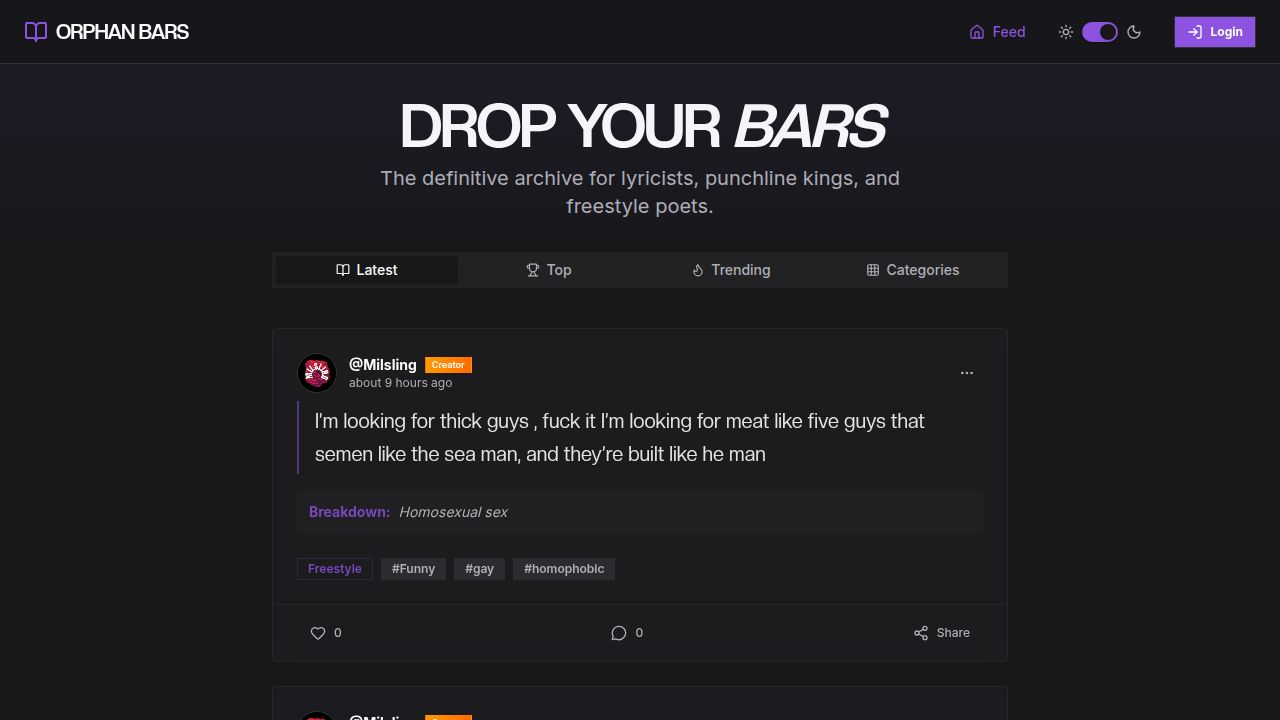
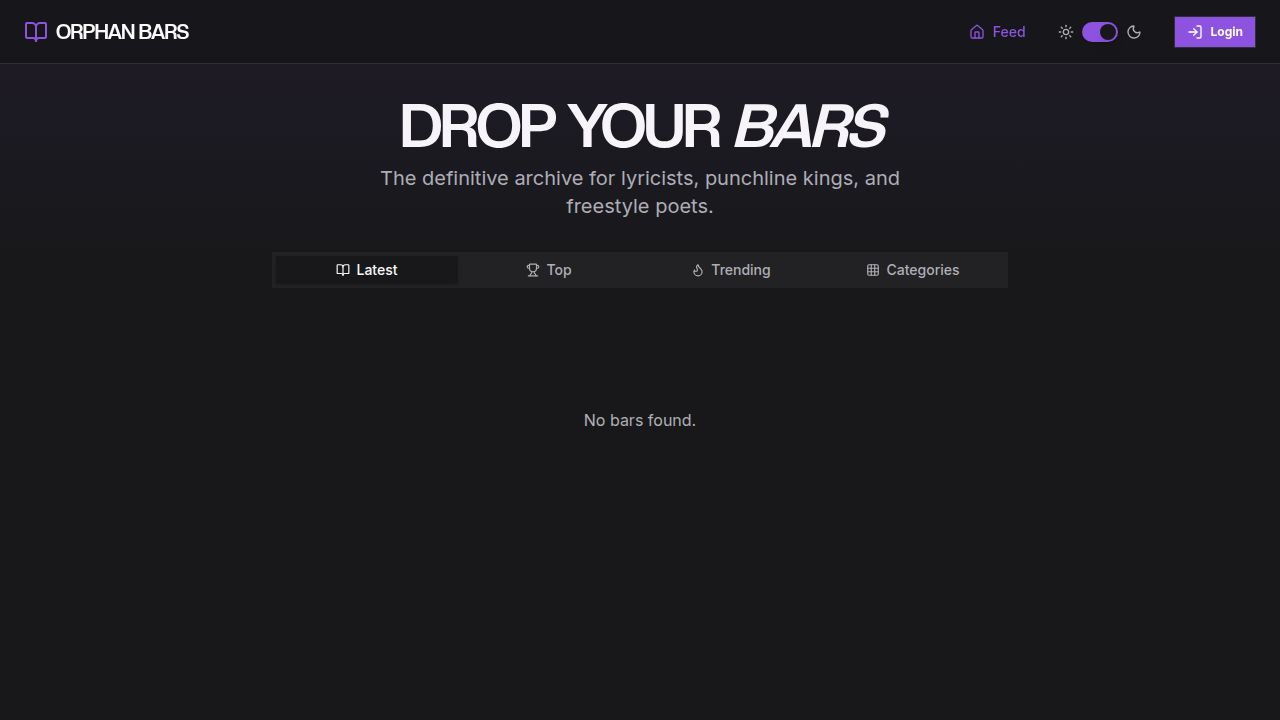
Add functionality to delete all bars from the admin panel
Adds a new API endpoint to delete all bars, integrates it into the client-side admin panel with a confirmation dialog, and updates the storage layer to handle the deletion.

Replit-Commit-Author: Agent
Replit-Commit-Session-Id: fc39a20a-0d36-48f5-8eaf-8de935e1e7b2
Replit-Commit-Checkpoint-Type: full_checkpoint
Replit-Commit-Event-Id: 9e76a912-d1a5-44b7-9e7d-4d3c05e5ec43
Replit-Commit-Screenshot-Url: https://storage.googleapis.com/screenshot-production-us-central1/ceffc5c3-e952-4163-a449-5ae4e89adb8e/fc39a20a-0d36-48f5-8eaf-8de935e1e7b2/ch1iBVl
Replit-Helium-Checkpoint-Created: true

diff --git a/client/src/pages/Admin.tsx b/client/src/pages/Admin.tsx
@@ -37,6 +37,17 @@ export default function Admin() {
     },
   });
 
+  const deleteAllBarsMutation = useMutation({
+    mutationFn: () => api.adminDeleteAllBars(),
+    onSuccess: () => {
+      queryClient.invalidateQueries({ queryKey: ['bars'] });
+      toast({ title: "All bars deleted" });
+    },
+    onError: (error: any) => {
+      toast({ title: "Error", description: error.message, variant: "destructive" });
+    },
+  });
+
   const deleteUserMutation = useMutation({
     mutationFn: (userId: string) => api.adminDeleteUser(userId),
     onSuccess: () => {
@@ -185,8 +196,35 @@ export default function Admin() {
 
           <TabsContent value="bars">
             <Card className="border-border bg-card/50">
-              <CardHeader>
+              <CardHeader className="flex flex-row items-center justify-between">
                 <CardTitle>All Bars</CardTitle>
+                {bars.length > 0 && (
+                  <AlertDialog>
+                    <AlertDialogTrigger asChild>
+                      <Button variant="destructive" size="sm" data-testid="button-delete-all-bars">
+                        <Trash2 className="h-4 w-4 mr-2" />
+                        Delete All Bars
+                      </Button>
+                    </AlertDialogTrigger>
+                    <AlertDialogContent>
+                      <AlertDialogHeader>
+                        <AlertDialogTitle>Delete All Bars</AlertDialogTitle>
+                        <AlertDialogDescription>
+                          Are you sure you want to delete ALL {bars.length} bars? This action cannot be undone.
+                        </AlertDialogDescription>
+                      </AlertDialogHeader>
+                      <AlertDialogFooter>
+                        <AlertDialogCancel>Cancel</AlertDialogCancel>
+                        <AlertDialogAction
+                          onClick={() => deleteAllBarsMutation.mutate()}
+                          className="bg-destructive text-destructive-foreground hover:bg-destructive/90"
+                        >
+                          Delete All
+                        </AlertDialogAction>
+                      </AlertDialogFooter>
+                    </AlertDialogContent>
+                  </AlertDialog>
+                )}
               </CardHeader>
               <CardContent>
                 <div className="space-y-3">

diff --git a/server/storage.ts b/server/storage.ts
@@ -25,6 +25,7 @@ export interface IStorage {
   // Admin methods
   getAllUsers(): Promise<User[]>;
   deleteBarAdmin(barId: string): Promise<boolean>;
+  deleteAllBars(): Promise<void>;
   deleteUser(userId: string): Promise<boolean>;
 
   // Like methods
@@ -162,6 +163,10 @@ export class DatabaseStorage implements IStorage {
   async deleteBarAdmin(barId: string): Promise<boolean> {
     const result = await db.delete(bars).where(eq(bars.id, barId)).returning();
     return result.length > 0;
+  }
+
+  async deleteAllBars(): Promise<void> {
+    await db.delete(bars);
   }
 
   async deleteUser(userId: string): Promise<boolean> {

diff --git a/client/src/lib/api.ts b/client/src/lib/api.ts
@@ -215,6 +215,13 @@ export const api = {
     return handleResponse<{ message: string }>(response);
   },
 
+  adminDeleteAllBars: async (): Promise<{ message: string }> => {
+    const response = await fetch('/api/admin/bars', {
+      method: 'DELETE',
+    });
+    return handleResponse<{ message: string }>(response);
+  },
+
   adminDeleteUser: async (userId: string): Promise<{ message: string }> => {
     const response = await fetch(`/api/admin/users/${userId}`, {
       method: 'DELETE',

diff --git a/server/routes.ts b/server/routes.ts
@@ -498,6 +498,15 @@ export async function registerRoutes(
     }
   });
 
+  app.delete("/api/admin/bars", isAdmin, async (req, res) => {
+    try {
+      await storage.deleteAllBars();
+      res.json({ message: "All bars deleted" });
+    } catch (error: any) {
+      res.status(500).json({ message: error.message });
+    }
+  });
+
   app.delete("/api/admin/bars/:id", isAdmin, async (req, res) => {
     try {
       const success = await storage.deleteBarAdmin(req.params.id);
